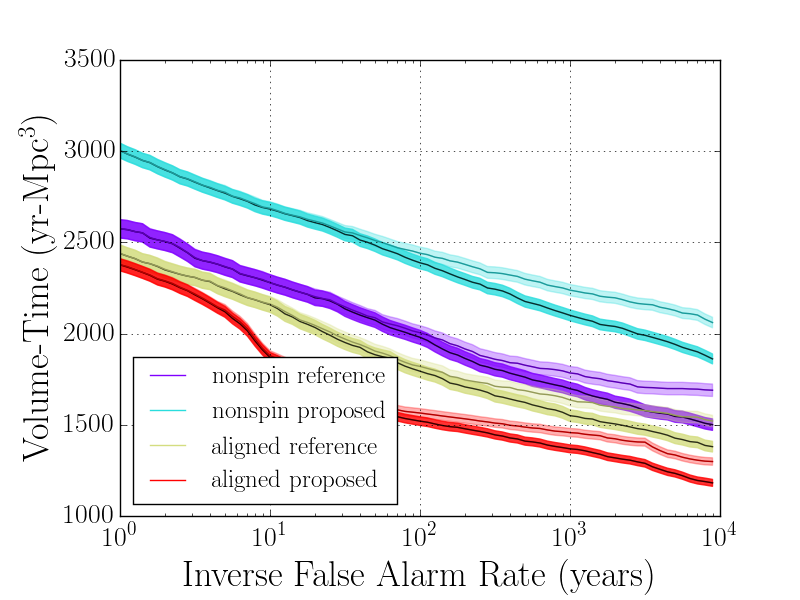
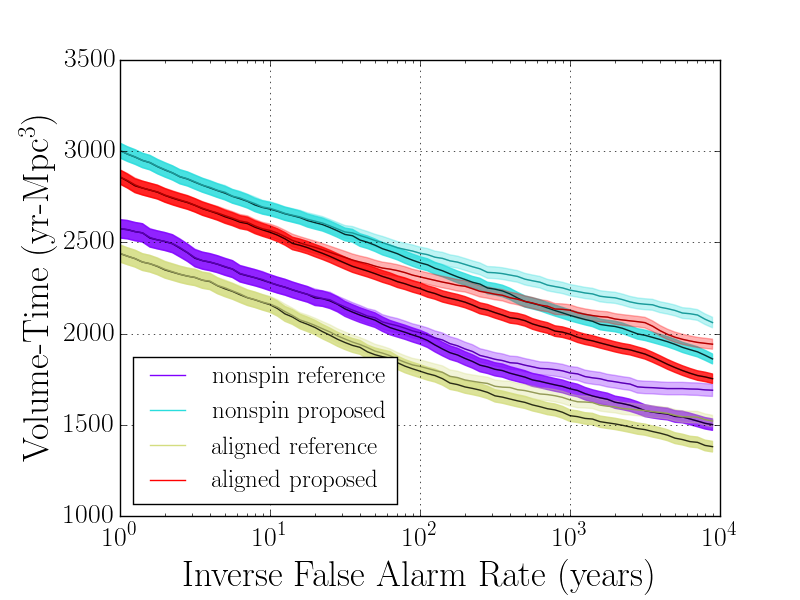
update corrected plots

Changed region(s): [[0.1562, 0.27, 0.9062, 0.66], [0.5, 0.66, 0.9062, 0.81], [0.125, 0.42, 0.3438, 0.6]]

diff --git a/ahnitz/thesis.tex b/ahnitz/thesis.tex
@@ -205,7 +205,7 @@ Topics in Gravitational-Wave Astrophysics
 \submitdate{August 2015}
 \degree{Doctor of Philosophy}
 \program{Physics}
-\copyrightyear{2014}
+\copyrightyear{2015}
 
 \majordept{Physics}
 \havededicationtrue
@@ -213,14 +213,16 @@ Topics in Gravitational-Wave Astrophysics
 \haveminorfalse
 \copyrighttrue
 \doctoratetrue
-\figurespagetrue
-\tablespagetrue
+
+\figurespagefalse
+\tablespagefalse
 \signedtitlepfalse
 
 % \doublespacing
-% \Abstract{
-% \input{abstract}
-% }
+ \Abstract{
+ \input{abstract}
+ }
+ 
 \beforepreface
 \prefacesection{Preface}
 \input{preface}
@@ -253,10 +255,10 @@ Topics in Gravitational-Wave Astrophysics
 \label{ch:opt}
 \input{pycbc_optimization}
 
-
 \Chapter{Focused BNS Analysis}
-\label{ch:bnsopt}
+\label{ch:bns_dev}
 \input{bns_dev}
+
 
 %\appendix
 % \Chapter{Post-Newtonian Waveforms}

diff --git a/ahnitz/pycbc_optimization.tex b/ahnitz/pycbc_optimization.tex
@@ -1847,9 +1847,6 @@ hardware.
 \end{center}
 \end{table}
 
-
-\appendix
-
 \vspace*{-10pt}
 \section{Comparison of LALApps and PyCBC Profiling}
 \vspace*{-05pt}
